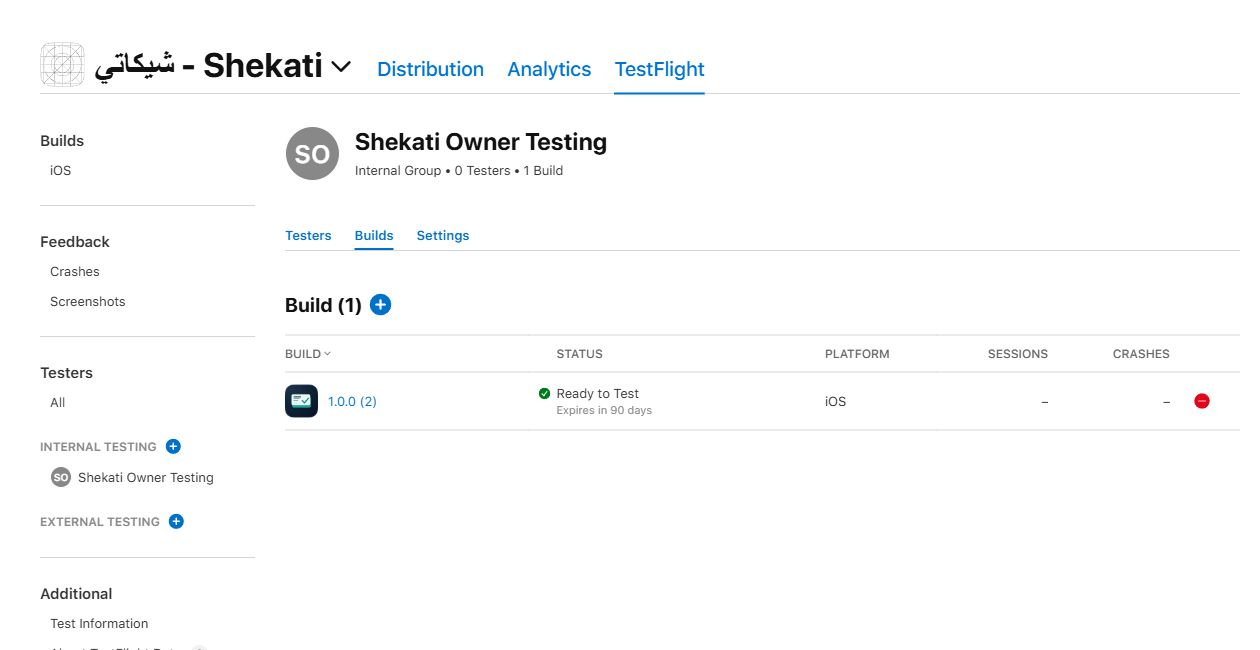
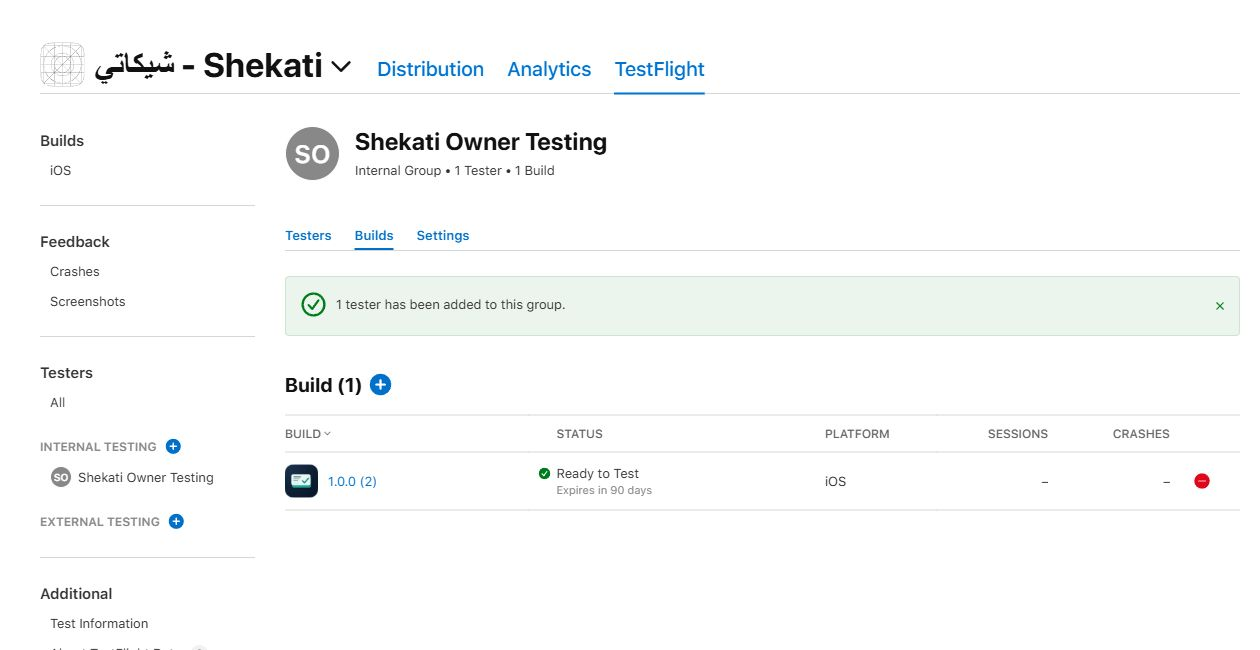
Record owner TestFlight invitation and installation steps [skip ci]

diff --git a/docs/CONNECT_ACCOUNTS_AR.md b/docs/CONNECT_ACCOUNTS_AR.md
@@ -13,7 +13,7 @@
 - تقييد هذه البيئة بفرع `main` فقط. لا توجد مفاتيح خاصة أو كلمات مرور ضمن مصدر المشروع.
 - حفظ السعر الأساسي الأمريكي **9.99 دولار** في App Store Connect، وإلغاء إتاحة التطبيق على Mac وApple Vision Pro وخيار الخصم التعليمي للشراء بالجملة، مع حفظ هذه الاختيارات.
 - التحقق قراءةً من تفعيل الاتفاقيتين المدفوعة والمجانية والحالة الضريبية الأمريكية وW-8BEN وDSA. الاتفاقية المدفوعة فعّالة من 25 سبتمبر 2026 إلى 3 سبتمبر 2027؛ لم تُقبل اتفاقية أو تُعدَّل نماذج ضريبية خلال عمل المساعد. يظهر نقص معلومات في النموذج الضريبي للبرازيل.
-- إنشاء مجموعة الاختبار الداخلي `Shekati Owner Testing` وربط البناء رقم 2 بها: بناء واحد وصفر مختبرين، مع إغلاق التوزيع التلقائي؛ لم تُرسل أي دعوات.
+- إنشاء مجموعة الاختبار الداخلي `Shekati Owner Testing` وربط البناء رقم 2 بها: بناء واحد ومختبر مالك واحد، مع إغلاق التوزيع التلقائي. أُرسلت دعوة المالك في 3 أكتوبر 2026 وتظهر الحالة `Invited`؛ قبولها والتثبيت لم يُؤكَّدا بعد.
 
 ## النسخة الثانية جاهزة للاختبار الداخلي
 
@@ -27,7 +27,7 @@
 
 تسجيل الحاوية لا ينشئ مخطط سجلات التطبيق. المحاكي الحالي يستخدم التخزين المحلي، ولم تُختبر المزامنة بعد. أداة التهيئة الأصلية أصبحت جاهزة وبناؤها نجح، لكن تشغيلها ونشر المخطط لم يكتمل بعد. يلزم تهيئة **Development schema** من نموذج التطبيق الفعلي ثم مراجعة **Deploy Schema Changes** في CloudKit Console لنشره إلى Production. TestFlight يستخدم Production، التي لا تنشئ أنواع السجلات تلقائيًا. [تهيئة SwiftData لدى Apple](https://developer.apple.com/documentation/swiftdata/syncing-model-data-across-a-persons-devices?changes=_8)، [نشر المخطط](https://developer.apple.com/documentation/CloudKit/deploying-an-icloud-container-s-schema).
 
-يمكن إكمال التهيئة عبر نسخة تطوير موقّعة على iPhone مسجّل، أو جلسة Mac تسمح بتسجيل الدخول إلى iCloud وتشغيل تهيئة المخطط. لمسار الهاتف نحتاج إلى طراز iPhone وإصدار iOS ومعرّف الجهاز **UDID**، ثم شهادة Apple Development وملف تطوير يضم الجهاز؛ هذه تختلف عن شهادة وملف التوزيع الجاهزين لـTestFlight. في جلسة Mac، يُدخل صاحب الحساب بيانات iCloud بنفسه، ولا تُحفظ كلمة مرور Apple في GitHub Secrets.
+المسار المختار يستخدم شهادة **Apple Distribution الحالية**. بعد معرفة طراز الآيفون وإصدار iOS و**UDID** وتسجيل الجهاز، نحتاج إلى ملف **ad-hoc** جديد يضم الهاتف ومعرّف التطبيق وحاوية iCloud، وحفظه باسم `ADHOC_PROVISIONING_PROFILE_BASE64`. يُصدّر مسار `Prepare CloudKit schema setup app` أداة التهيئة باستخدام `release-testing` وبيئة CloudKit Development، ثم تُشغّل على الهاتف قبل نشر المخطط إلى Production. لا يتطلب هذا المسار شهادة Apple Development جديدة أو مفتاح App Store Connect أو رمز cktool إضافيًا. الخطوات في [دليل أداة التهيئة](../Tools/SchemaBootstrap/README.md)؛ تجهيز الملف وتشغيل الأداة ونشر المخطط لم تكتمل بعد.
 
 ## توصيل الآيفون بهذا الكمبيوتر
 
@@ -37,8 +37,14 @@
 
 ## TestFlight والاختبار على الآيفون
 
-نجح الفحص الجديد و[مسار رفع النسخة الثانية](https://github.com/mf103871-boop/Shekati/actions/runs/37147465558/job/111274911754): الأرشفة والتصدير والرفع دون أخطاء، مع تأكيد الآيفون فقط في الأرشيف وIPA. [الإصدار 1.0.0 والبناء 2](https://appstoreconnect.apple.com/teams/609ff8f7-15ce-48ec-9e60-e95f8ed24d3a/apps/6818852973/testflight/ios/c6a99453-40c5-4cd3-a86b-aeca16550426) ظاهر في TestFlight ومربوط بمجموعة المالك؛ [صورة التحقق](screenshots/Shekati-TestFlight-build.jpg). أكد تبويب Builds داخل المجموعة حالة `Ready to Test` و`Expires in 90 days`؛ جاهزية الاختبار الداخلي مؤكدة. المجموعة تضم بناءً واحدًا وصفر مختبرين، ولم تُرسل دعوة بعد. التفاصيل في [دليل البناء](BUILD.md). تهيئة مخطط iCloud ونشره إلى Production واختبار المزامنة على الهاتف لا تزال مطلوبة قبل اعتماد النسخة للاستخدام.
+نجح الفحص الجديد و[مسار رفع النسخة الثانية](https://github.com/mf103871-boop/Shekati/actions/runs/37147465558/job/111274911754): الأرشفة والتصدير والرفع دون أخطاء، مع تأكيد الآيفون فقط في الأرشيف وIPA. [الإصدار 1.0.0 والبناء 2](https://appstoreconnect.apple.com/teams/609ff8f7-15ce-48ec-9e60-e95f8ed24d3a/apps/6818852973/testflight/ios/c6a99453-40c5-4cd3-a86b-aeca16550426) ظاهر في TestFlight ومربوط بمجموعة المالك؛ [صورة التحقق](screenshots/Shekati-TestFlight-build.jpg). أكد تبويب Builds داخل المجموعة حالة `Ready to Test` و`Expires in 90 days`؛ جاهزية الاختبار الداخلي مؤكدة. المجموعة تضم بناءً واحدًا ومختبر مالك واحدًا، وقد أُرسلت دعوته وتظهر الحالة `Invited`. التفاصيل في [دليل البناء](BUILD.md). تهيئة مخطط iCloud ونشره إلى Production واختبار المزامنة على الهاتف لا تزال مطلوبة قبل اعتماد النسخة للاستخدام.
 
-النسخة جاهزة للاختبار الداخلي، لكن دعوة المالك لم تُرسل ولم تُثبَّت نسخة على الهاتف بعد. بعد تفعيل وصول المالك للاختبار، تُنفّذ [اختبارات الآيفون الفعلي](DEVICE_QA.md)، خصوصًا المزامنة والصور والكاميرا والقفل والتنبيهات والهاتف مقفل ودون إنترنت. الرفع إلى TestFlight وربط مجموعة الاختبار لا ينشران التطبيق للعامة. السعر **9.99 دولار** محفوظ والاتفاقية المدفوعة فعّالة؛ قبل البيع العام تبقى مراجعة متطلبات النموذج الضريبي للبرازيل، وسياسة الخصوصية والدعم، واختبارات الهاتف ومراجعة المتجر. لم يُطلب نشر عام، ولم يُؤكَّد اكتمال مخطط iCloud أو قبوله على الهاتف.
+أُرسلت الدعوة وحالتها `Invited`؛ وصول الرسالة وقراءتها وقبول الدعوة والتثبيت لم تُؤكَّد بعد. لتثبيت النسخة على الآيفون:
+
+1. نزّل تطبيق **TestFlight** من App Store على الآيفون.
+2. عند وصول رسالة الدعوة من Apple، افتحها واضغط **View in TestFlight**.
+3. اضغط **Accept** ثم **Install** لتثبيت شيكاتي. [تعليمات Apple الرسمية](https://testflight.apple.com/).
+
+بعد قبول الدعوة وتثبيت البناء عبر TestFlight، تُنفّذ [اختبارات الآيفون الفعلي](DEVICE_QA.md)، خصوصًا المزامنة والصور والكاميرا والقفل والتنبيهات والهاتف مقفل ودون إنترنت. الرفع إلى TestFlight وربط مجموعة الاختبار لا ينشران التطبيق للعامة. السعر **9.99 دولار** محفوظ والاتفاقية المدفوعة فعّالة؛ قبل البيع العام تبقى مراجعة متطلبات النموذج الضريبي للبرازيل، وسياسة الخصوصية والدعم، واختبارات الهاتف ومراجعة المتجر. لم يُطلب نشر عام، ولم يُؤكَّد اكتمال مخطط iCloud أو قبوله على الهاتف.
 
 تُدار ملفات التوقيع الحالية من المخزن المحلي المحمي وGitHub Secrets. الأدوات العامة في `docs/windows/` مرجع لإعادة التجهيز عند الحاجة مستقبلًا؛ لا تشغّل أدوات إنشاء مفتاح أو شهادة جديدة أثناء متابعة الإعداد الحالي.

diff --git a/README.md b/README.md
@@ -2,7 +2,7 @@
 
 تطبيق أصلي للآيفون لمتابعة الشيكات الواردة والصادرة، وتواريخ الاستحقاق والصرف الفعلي، والصور والتذكيرات. واجهة عربية وإنجليزية، حفظ محلي، ومزامنة خاصة عبر iCloud. الحد الأدنى iOS 17.
 
-This repository contains the SwiftUI app, its SwiftData models, a Foundation-only business-logic package, automated tests, XcodeGen configuration, and hosted macOS build workflows. [Version 1.0.0, build 2](https://appstoreconnect.apple.com/teams/609ff8f7-15ce-48ec-9e60-e95f8ed24d3a/apps/6818852973/testflight/ios/c6a99453-40c5-4cd3-a86b-aeca16550426) is confirmed `Ready to Test` in the internal TestFlight group's Builds tab, with `Expires in 90 days`. Native tests, visual review and signed upload passed; the invitation and physical-iPhone installation remain pending.
+This repository contains the SwiftUI app, its SwiftData models, a Foundation-only business-logic package, automated tests, XcodeGen configuration, and hosted macOS build workflows. [Version 1.0.0, build 2](https://appstoreconnect.apple.com/teams/609ff8f7-15ce-48ec-9e60-e95f8ed24d3a/apps/6818852973/testflight/ios/c6a99453-40c5-4cd3-a86b-aeca16550426) is confirmed `Ready to Test` in the internal TestFlight group's Builds tab, with `Expires in 90 days`. Native tests, visual review and signed upload passed. One owner tester was invited on 3 October 2026; invitation acceptance and physical-iPhone installation are not confirmed.
 
 ## What is included
 
@@ -22,7 +22,7 @@ The commercial model is a **$9.99 paid download**, with all features included an
 
 See [Build guide](docs/BUILD.md) for macOS or Windows-with-hosted-macOS instructions, Apple signing, private iCloud setup, and TestFlight secrets. Build 2 automated simulator validation has passed; [real-device acceptance checks](docs/DEVICE_QA.md) remain pending.
 
-تم ربط المستودع الخاص وهوية التطبيق وحاوية iCloud وسجل المتجر، وإصدار شهادة وملف التوزيع وحفظ أسرار التوقيع والنشر السبعة في بيئة GitHub المقيّدة بفرع `main`. البناء رقم 2 جاهز للاختبار في TestFlight ومربوط بمجموعة اختبار المالك، مع صفر مختبرين ودون إرسال دعوات. دعوة المالك والتثبيت على الهاتف وتهيئة مخطط iCloud ما زالت قيد التجهيز. راجع [حالة الربط الفعلية](docs/ACCOUNT_SETUP_STATUS.md) و[متابعة التجهيز من ويندوز](docs/CONNECT_ACCOUNTS_AR.md).
+تم ربط المستودع الخاص وهوية التطبيق وحاوية iCloud وسجل المتجر، وإصدار شهادة وملف التوزيع وحفظ أسرار التوقيع والنشر السبعة في بيئة GitHub المقيّدة بفرع `main`. البناء رقم 2 جاهز للاختبار في TestFlight ومربوط بمجموعة اختبار المالك، التي تضم مختبرًا واحدًا وبناءً واحدًا. أُرسلت دعوة المالك في 3 أكتوبر 2026 وتظهر الحالة `Invited`؛ قبول الدعوة والتثبيت على الهاتف وتهيئة مخطط iCloud لم تُؤكَّد بعد. راجع [حالة الربط الفعلية](docs/ACCOUNT_SETUP_STATUS.md) و[متابعة التجهيز من ويندوز](docs/CONNECT_ACCOUNTS_AR.md).
 
 ## معاينة التصميم | Design preview
 
@@ -36,9 +36,9 @@ Release material is supplied in [Arabic and English store copy](docs/APP_STORE.m
 
 Build 2's complete native [validation job 111274269760](https://github.com/mf103871-boop/Shekati/actions/runs/37147465558/job/111274269760) passed using Xcode 26.6 and an iOS 26.5 simulator: all 24 macOS core tests, then all 48 iPhone scenarios (24 core, 22 hosted unit/integration and both UI tests). The separate native [cloud schema bootstrap tool](Tools/SchemaBootstrap/README.md) also built successfully. Fresh native screenshots confirmed readable English Settings with the correct left-to-right layout after switching from Arabic, with the selected Settings tab preserved.
 
-Build 2's [signed upload job 111274911754](https://github.com/mf103871-boop/Shekati/actions/runs/37147465558/job/111274911754) succeeded, including both archive and IPA checks for the iPhone-only device family `[1]`; [saved success proof](docs/screenshots/Shekati-build-upload-success.jpg). The earlier build 1 rejection (90474, unintended iPad support) is resolved in the signed output. The [TestFlight group proof](docs/screenshots/Shekati-TestFlight-build.jpg) confirms build 2 is attached to `Shekati Owner Testing` and `Ready to Test`. Invitations, physical-device testing and private iCloud schema setup remain pending.
+Build 2's [signed upload job 111274911754](https://github.com/mf103871-boop/Shekati/actions/runs/37147465558/job/111274911754) succeeded, including both archive and IPA checks for the iPhone-only device family `[1]`; [saved success proof](docs/screenshots/Shekati-build-upload-success.jpg). The earlier build 1 rejection (90474, unintended iPad support) is resolved in the signed output. The [TestFlight group proof](docs/screenshots/Shekati-TestFlight-build.jpg) confirms build 2 is attached to `Shekati Owner Testing` and `Ready to Test`. The owner invitation was sent; physical-device testing and private iCloud schema setup remain pending.
 
-These native test results apply to build 2 commit [7325d7046101](https://github.com/mf103871-boop/Shekati/commit/7325d70461017efe53bec6e44b1d59c54d72220e). Read-only account verification confirmed the Paid Apps Agreement is already active. The Brazil tax form still shows missing information; publication URLs/contact details and public App Review remain outstanding. The internal group `Shekati Owner Testing` has one attached build and zero testers, with automatic distribution off and no invitations sent.
+These native test results apply to build 2 commit [7325d7046101](https://github.com/mf103871-boop/Shekati/commit/7325d70461017efe53bec6e44b1d59c54d72220e). Read-only account verification confirmed the Paid Apps Agreement is already active. The Brazil tax form still shows missing information; publication URLs/contact details and public App Review remain outstanding. The internal group `Shekati Owner Testing` has one attached build and one owner tester, with automatic distribution off. The tester's status is `Invited`; no device, installation or test session has been confirmed.
 
 Actual build 2 simulator captures: [Arabic Home](docs/screenshots/native-arabic-home.png), [English cheque detail](docs/screenshots/native-english-detail.png), and [English Settings after language change](docs/screenshots/native-english-settings.png). These are raw native captures, separate from the browser design preview.
 

diff --git a/docs/VALIDATION.md b/docs/VALIDATION.md
@@ -1,6 +1,6 @@
 # حالة التحقق | Validation status
 
-Status updated on 3 October 2026. Version 1.0.0, build 2 at commit [7325d7046101](https://github.com/mf103871-boop/Shekati/commit/7325d70461017efe53bec6e44b1d59c54d72220e) passed complete native validation, visual screenshot review, signed archive/export and upload in [run 37147465558](https://github.com/mf103871-boop/Shekati/actions/runs/37147465558). Internal TestFlight readiness is confirmed: the owner-testing group's Builds tab shows `Ready to Test`, `Expires in 90 days`. Invitation, physical installation and cloud/device acceptance remain pending.
+Status updated on 3 October 2026. Version 1.0.0, build 2 at commit [7325d7046101](https://github.com/mf103871-boop/Shekati/commit/7325d70461017efe53bec6e44b1d59c54d72220e) passed complete native validation, visual screenshot review, signed archive/export and upload in [run 37147465558](https://github.com/mf103871-boop/Shekati/actions/runs/37147465558). Internal TestFlight readiness is confirmed: the owner-testing group's Builds tab shows `Ready to Test`, `Expires in 90 days`. One owner tester has been added and the invitation was sent; the tester is `Invited`, with acceptance, physical installation and cloud/device acceptance unverified.
 
 | Check | Result |
 | --- | --- |
@@ -29,12 +29,13 @@ Status updated on 3 October 2026. Version 1.0.0, build 2 at commit [7325d7046101
 | iPhone-only distribution configuration | Signed archive and exported IPA both passed device-family `[1]` guards |
 | App Store configuration | US base price [$9.99 saved](screenshots/Shekati-price-saved.jpg); Mac/Vision availability and reduced school volume price unchecked and saved |
 | App Store agreements and compliance, read-only | Paid/Free Apps Agreements, US Foreign Status/W-8BEN and DSA active; Brazil tax form has missing information |
-| Internal testing group | `Shekati Owner Testing` attached to build 2: one build, zero testers; automatic distribution off, no invitations sent |
+| Internal testing group | `Shekati Owner Testing` attached to build 2: one build and one owner tester; automatic distribution off |
+| Owner invitation | Sent on 3 October 2026; tester status `Invited`. No confirmed acceptance, device, installation or test session |
 | Public App Store release | Not performed |
 
 There are **48 native XCTest scenarios**: 24 core tests, 17 reminder/OCR tests, 5 model/persistence tests and 2 UI tests. All passed in the iPhone test run for build 2 commit [7325d7046101](https://github.com/mf103871-boop/Shekati/commit/7325d70461017efe53bec6e44b1d59c54d72220e), after the macOS core suite also passed. The earlier build 1 also passed 48 tests, but screenshot review exposed a Settings direction defect not detected by its assertions. Build 2 includes the lifecycle fix, passes the renewed tests and passed visual review of the actual native screenshots. Source was unchanged after the successful native validation. A simulator pass does not establish physical-device behavior or cloud synchronization.
 
-The signed build 1 archive and exported IPA succeeded, but App Store Connect rejected that upload with error 90474 because the app target inherited XcodeGen's iPad device-family preset. Build 2 sets the family at the target; both signed archive and IPA family checks passed. Its validation and upload jobs both succeeded. Upload delivery UUID: `c6a99453-40c5-4cd3-a86b-aeca16550426`. The owner-testing group is attached, and its Builds tab now confirms `Ready to Test`, `Expires in 90 days`. Earlier `Ready to Submit`/`Processing` observations do not block this confirmed internal readiness. The group has zero testers; no invitations or physical-iPhone installations have occurred.
+The signed build 1 archive and exported IPA succeeded, but App Store Connect rejected that upload with error 90474 because the app target inherited XcodeGen's iPad device-family preset. Build 2 sets the family at the target; both signed archive and IPA family checks passed. Its validation and upload jobs both succeeded. Upload delivery UUID: `c6a99453-40c5-4cd3-a86b-aeca16550426`. The owner-testing group is attached, and its Builds tab confirms `Ready to Test`, `Expires in 90 days`. Earlier `Ready to Submit`/`Processing` observations do not block this confirmed internal readiness. The group has one owner tester, invited on 3 October 2026; status `Invited`. Acceptance and physical-iPhone installation have not been confirmed.
 
 The raw 1260×2736 simulator screenshots came from native artifact `11283221817` for build 2: [Arabic Home](screenshots/native-arabic-home.png), [English cheque detail](screenshots/native-english-detail.png), and [English Settings after language change](screenshots/native-english-settings.png). The English Settings screenshot was visually reviewed and confirms the transition defect is resolved.
 

diff --git a/docs/ACCOUNT_SETUP_STATUS.md b/docs/ACCOUNT_SETUP_STATUS.md
@@ -30,13 +30,14 @@
 | الحالة الضريبية الأمريكية وW-8BEN | تم التحقق من أنهما Active |
 | DSA | تم التحقق من أنه Active |
 | النموذج الضريبي للبرازيل | يظهر نقص معلومات ضريبية؛ لم يُعدَّل النموذج |
-| مجموعة الاختبار الداخلي | رُبطت `Shekati Owner Testing` بالبناء رقم 2؛ بناء واحد وصفر مختبرين، والتوزيع التلقائي مغلق، ولم تُرسل دعوات |
+| مجموعة الاختبار الداخلي | رُبطت `Shekati Owner Testing` بالبناء رقم 2؛ بناء واحد ومختبر مالك واحد، والتوزيع التلقائي مغلق |
+| دعوة المالك | أُرسلت في 3 أكتوبر 2026؛ الحالة `Invited`. قبول الدعوة والجهاز والتثبيت وجلسات الاختبار لم تُؤكَّد بعد |
 | اتصال آيفون بويندوز | لم يؤكَّد توصيل الهاتف بعد؛ الفحص المحلي أظهر غياب Apple Devices/iTunes وخدمة Apple Mobile Device وتعريف USB؛ أداة القراءة المحلية جاهزة ولم تقرأ معرّفًا |
 | مخطط iCloud في Development/Production | لم تتم تهيئته أو نشره بعد |
 | ظهور النسخة في TestFlight | [الإصدار 1.0.0، البناء 2](https://appstoreconnect.apple.com/teams/609ff8f7-15ce-48ec-9e60-e95f8ed24d3a/apps/6818852973/testflight/ios/c6a99453-40c5-4cd3-a86b-aeca16550426) ظاهر؛ [صورة البوابة](screenshots/Shekati-TestFlight-build.jpg) |
 | جاهزية الاختبار الداخلي | تبويب Builds داخل المجموعة أكد `Ready to Test` و`Expires in 90 days` للبناء `1.0.0 (2)`؛ ملاحظتا `Ready to Submit` و`Processing` كانتا سابقتين لهذا التأكيد |
 | التثبيت والنشر العام | لم تُثبَّت نسخة على آيفون فعلي ولم يُنشر التطبيق للعامة |
 
-نجح الفحص الآلي للنسخة الثانية كاملةً والتحقق البصري من تغيير اللغة، ثم نجحت الأرشفة والتصدير والرفع. أكد تبويب Builds داخل مجموعة اختبار المالك أن النسخة `Ready to Test`. المجموعة تضم البناء رقم 2 وصفر مختبرين؛ دعوة المالك لم تُرسل والتثبيت على الهاتف لم يُختبر بعد. الاتفاقية المدفوعة فعّالة، مع نقص معلومات في النموذج الضريبي للبرازيل. مخطط iCloud واختبار المزامنة على آيفون فعلي لا يزالان قيد التجهيز.
+نجح الفحص الآلي للنسخة الثانية كاملةً والتحقق البصري من تغيير اللغة، ثم نجحت الأرشفة والتصدير والرفع. أكد تبويب Builds داخل مجموعة اختبار المالك أن النسخة `Ready to Test`. المجموعة تضم البناء رقم 2 ومختبر مالك واحد؛ أُرسلت الدعوة وتظهر `Invited`، وقبولها والتثبيت على الهاتف لم يُؤكَّدا بعد. الاتفاقية المدفوعة فعّالة، مع نقص معلومات في النموذج الضريبي للبرازيل. مخطط iCloud واختبار المزامنة على آيفون فعلي لا يزالان قيد التجهيز.
 
 لا يحتوي هذا المشروع كلمات مرور أو مفاتيح خاصة أو ملفات توقيع أو بيانات شيكات حقيقية. خطوات المتابعة في [دليل الربط](CONNECT_ACCOUNTS_AR.md).

diff --git a/docs/APP_STORE.md b/docs/APP_STORE.md
@@ -1,6 +1,6 @@
 # مواد المتجر | App Store material
 
-Publication draft for version 1.0.0. Replace operator/contact placeholders and check feature claims against physical-iPhone results before public submission. [Build 2](https://appstoreconnect.apple.com/teams/609ff8f7-15ce-48ec-9e60-e95f8ed24d3a/apps/6818852973/testflight/ios/c6a99453-40c5-4cd3-a86b-aeca16550426) passed complete native tests, native screenshot review, signed archive/export and upload. Internal readiness is confirmed in the group Builds tab: `Ready to Test`, `Expires in 90 days`. Public App Review has not been requested, invitations have not been sent, and physical-device/iCloud acceptance is not complete. Configuration items described as saved below are confirmed; the remaining publication fields are draft values.
+Publication draft for version 1.0.0. Replace operator/contact placeholders and check feature claims against physical-iPhone results before public submission. [Build 2](https://appstoreconnect.apple.com/teams/609ff8f7-15ce-48ec-9e60-e95f8ed24d3a/apps/6818852973/testflight/ios/c6a99453-40c5-4cd3-a86b-aeca16550426) passed complete native tests, native screenshot review, signed archive/export and upload. Internal readiness is confirmed in the group Builds tab: `Ready to Test`, `Expires in 90 days`. One owner tester has been invited; status `Invited`. Public App Review has not been requested, and invitation acceptance, physical installation and device/iCloud acceptance remain unverified. Configuration items described as saved below are confirmed; the remaining publication fields are draft values.
 
 ## Store configuration
 
@@ -19,9 +19,10 @@ Publication draft for version 1.0.0. Replace operator/contact placeholders and c
 | US Foreign Status and W-8BEN | Active, verified read-only |
 | DSA | Active, verified read-only |
 | Brazil tax form | Missing tax information; not changed during setup |
-| Internal testing group | `Shekati Owner Testing` attached to build 2: one build, zero testers, automatic distribution off, no invitations sent |
+| Internal testing group | `Shekati Owner Testing` attached to build 2: one build and one owner tester, automatic distribution off |
+| Owner invitation | Sent on 3 October 2026; status `Invited`, acceptance and installation unconfirmed |
 | TestFlight build | Version 1.0.0, build 2 visible; [portal proof](screenshots/Shekati-TestFlight-build.jpg) |
-| Internal TestFlight readiness | Group Builds tab: `Ready to Test`, `Expires in 90 days`; owner invitation and physical installation pending |
+| Internal TestFlight readiness | Group Builds tab: `Ready to Test`, `Expires in 90 days`; physical installation and device acceptance pending |
 | Minimum OS | iOS 17 |
 | Languages | Arabic and English |
 | Privacy-policy URL | `[ACTUAL_PUBLIC_PRIVACY_URL]` |
